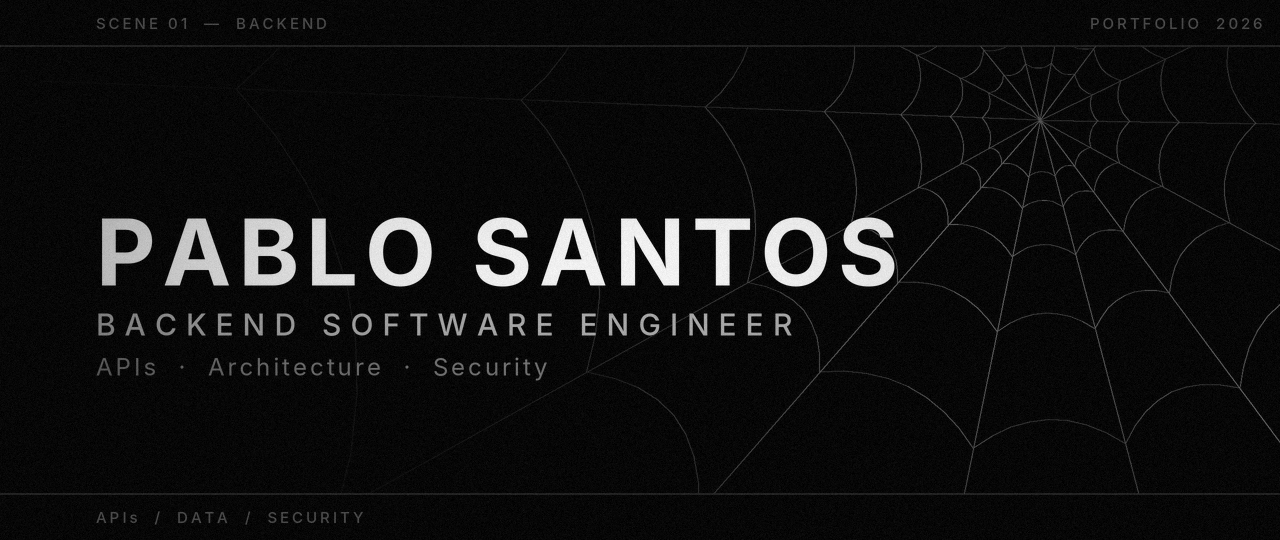
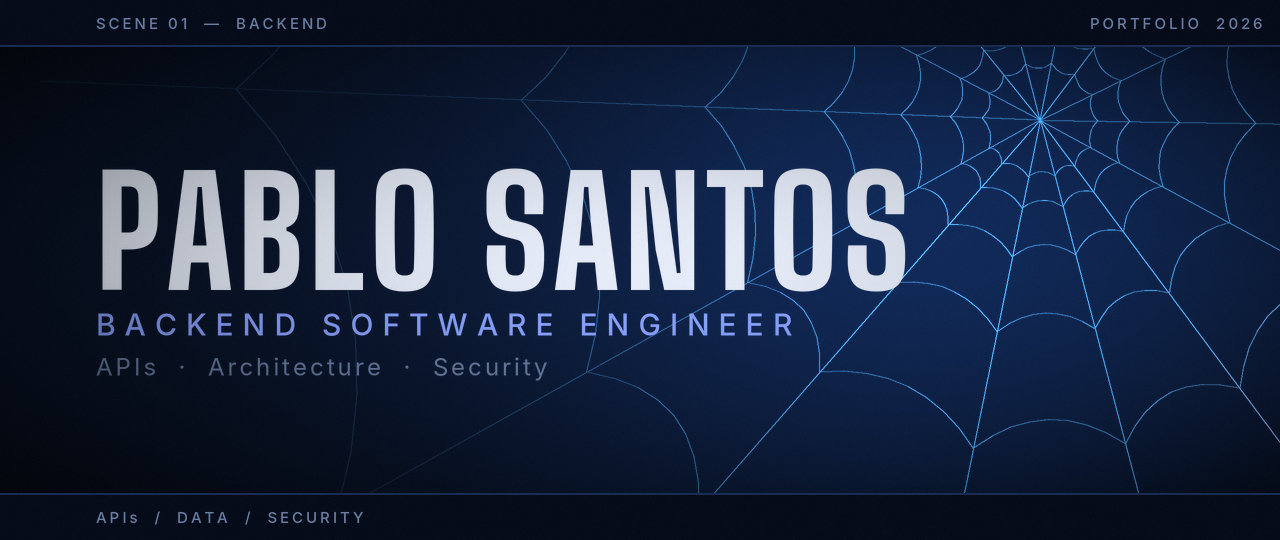
feat: navy cinematic hero

diff --git a/tools/render_hero.py b/tools/render_hero.py
@@ -1,9 +1,9 @@
-"""Renders the cinematic, monochrome hero (hero.webp + hero-static.png).
+"""Renders the navy cinematic hero (hero.webp + hero-static.png).
 
-Composition: a procedural web (own geometry) spreads from the top-right,
-dimmed on the left where the text sits; letterbox bars, vignette and fine
-grain; name/subtitle revealed by a left-to-right wipe. Loop starts and ends
-on near-black.
+A procedural web (own geometry) spreads from the top-right in icy blue over a
+deep navy grade with a soft blue glow, letterbox bars, vignette and fine grain.
+Name/role/tags are revealed by a left-to-right wipe. The loop starts and ends
+on near-black navy.
 """
 from __future__ import annotations
 
@@ -16,32 +16,50 @@ from pathlib import Path
 import numpy as np
 from PIL import Image, ImageDraw, ImageFont
 
+from palette import EDGE, ICE, MUTED, NAVY, PALE, PERI, TEXT
+
 W, H = 1280, 540
-S = 2  # supersampling factor
+S = 2  # supersampling
 BAR = 46
 CENTER = (1040.0, 120.0)
-FONT_DIR = Path("/usr/share/fonts/opentype/inter")
-NAME = "PABLO SANTOS"
-SUB = "BACKEND SOFTWARE ENGINEER"
-TAG = "APIs  ·  Architecture  ·  Security"
+HERE = Path(__file__).resolve().parent
+INTER_DIR = Path("/usr/share/fonts/opentype/inter")
+DISPLAY_FONT = HERE / "fonts" / "BigShouldersDisplay-800.woff"
+NAME, SUB, TAG = "PABLO SANTOS", "BACKEND SOFTWARE ENGINEER", "APIs  ·  Architecture  ·  Security"
 
 
-def _font(weight: str, size: int) -> ImageFont.FreeTypeFont:
-    return ImageFont.truetype(str(FONT_DIR / f"Inter-{weight}.otf"), size * S)
+def _rgb(c: str) -> np.ndarray:
+    c = c.lstrip("#")
+    return np.array([int(c[i:i + 2], 16) for i in (0, 2, 4)], dtype=np.float32)
 
 
-def _tracked(draw: ImageDraw.ImageDraw, xy, text, font, tracking, fill=255):
+C_NAVY, C_ICE, C_PALE, C_PERI, C_TEXT, C_MUTED, C_EDGE = (_rgb(x) for x in (NAVY, ICE, PALE, PERI, TEXT, MUTED, EDGE))
+C_FLOOR, C_BAR = np.array([5, 10, 22], np.float32), np.array([6, 12, 26], np.float32)
+C_GLOW = np.array([20, 55, 120], np.float32)
+
+
+def _inter(weight: str, size: int) -> ImageFont.FreeTypeFont:
+    return ImageFont.truetype(str(INTER_DIR / f"Inter-{weight}.otf"), size * S)
+
+
+def _display(size: int) -> ImageFont.FreeTypeFont:
+    if DISPLAY_FONT.exists():
+        return ImageFont.truetype(str(DISPLAY_FONT), size * S)
+    return _inter("Bold", int(size * 0.72))
+
+
+def _tracked(draw, xy, text, font, tracking, fill=255):
     x, y = xy
     for ch in text:
         draw.text((x * S, y * S), ch, font=font, fill=fill)
         x += font.getlength(ch) / S + tracking
 
 
-def _clamp(v: float, lo: float = 0.0, hi: float = 1.0) -> float:
+def _clamp(v, lo=0.0, hi=1.0):
     return max(lo, min(hi, v))
 
 
-def _ease(v: float) -> float:
+def _ease(v):
     v = _clamp(v)
     return v * v * (3 - 2 * v)
 
@@ -53,7 +71,7 @@ def _web_geometry():
     radii = [58 * (1.55 ** k) for k in range(7)]
     cx, cy = CENTER
     rings = []
-    for k, r in enumerate(radii):
+    for r in radii:
         pts = []
         for j in range(n + 1):
             a0 = angles[j % n]
@@ -62,11 +80,10 @@ def _web_geometry():
             p1 = (cx + r * math.cos(a1), cy + r * math.sin(a1))
             mid = ((p0[0] + p1[0]) / 2, (p0[1] + p1[1]) / 2)
             ctrl = (cx + (mid[0] - cx) * 0.84, cy + (mid[1] - cy) * 0.84)
-            for s in range(0, 8):
+            for s in range(8):
                 u = s / 8
-                x = (1 - u) ** 2 * p0[0] + 2 * (1 - u) * u * ctrl[0] + u**2 * p1[0]
-                y = (1 - u) ** 2 * p0[1] + 2 * (1 - u) * u * ctrl[1] + u**2 * p1[1]
-                pts.append((x, y))
+                pts.append(((1 - u) ** 2 * p0[0] + 2 * (1 - u) * u * ctrl[0] + u ** 2 * p1[0],
+                            (1 - u) ** 2 * p0[1] + 2 * (1 - u) * u * ctrl[1] + u ** 2 * p1[1]))
         rings.append(pts)
     return angles, rings
 
@@ -80,97 +97,87 @@ def _web_layer(t: float) -> np.ndarray:
     cx, cy = CENTER
     for i, a in enumerate(ANGLES):
         p = _ease((t - 0.05 * i) / 1.3)
-        if p <= 0:
-            continue
-        L = 1000 * p
-        d.line([(cx * S, cy * S), ((cx + L * math.cos(a)) * S, (cy + L * math.sin(a)) * S)],
-               fill=105, width=2)
+        if p > 0:
+            L = 1000 * p
+            d.line([(cx * S, cy * S), ((cx + L * math.cos(a)) * S, (cy + L * math.sin(a)) * S)], fill=125, width=2)
     for k, pts in enumerate(RINGS):
         p = _ease((t - (0.9 + 0.33 * k)) / 1.1)
-        if p <= 0:
-            continue
-        m = max(2, int(len(pts) * p))
-        d.line([(x * S, y * S) for x, y in pts[:m]], fill=95, width=2, joint="curve")
-    arr = np.asarray(img.resize((W, H), Image.LANCZOS)).astype(np.float32)
-    return arr
+        if p > 0:
+            m = max(2, int(len(pts) * p))
+            d.line([(x * S, y * S) for x, y in pts[:m]], fill=110, width=2, joint="curve")
+    return np.asarray(img.resize((W, H), Image.LANCZOS)).astype(np.float32)
 
 
-def _static_masks():
+def _static_fields():
     xs = np.linspace(0, 1, W, dtype=np.float32)[None, :]
     ys = np.linspace(0, 1, H, dtype=np.float32)[:, None]
-    # dim the web on the left where text sits
-    web_mask = 0.18 + 0.82 * np.clip((xs - 0.30) / 0.45, 0, 1) ** 1.2
-    web_mask = np.broadcast_to(web_mask, (H, W)).copy()
-    # vignette
-    vx = (xs - 0.5) * 1.15
-    vy = (ys - 0.5) * 1.35
-    vig = np.clip(1 - (vx**2 + vy**2) * 1.05, 0.15, 1.0)
-    return web_mask, vig.astype(np.float32)
+    web_mask = np.broadcast_to(0.18 + 0.82 * np.clip((xs - 0.30) / 0.45, 0, 1) ** 1.2, (H, W)).copy()
+    vig = np.clip(1 - (((xs - 0.5) * 1.15) ** 2 + ((ys - 0.5) * 1.35) ** 2) * 1.05, 0.2, 1.0).astype(np.float32)
+    yy, xx = np.mgrid[0:H, 0:W].astype(np.float32)
+    d2 = ((xx - CENTER[0]) ** 2 + (yy - CENTER[1]) ** 2) / (520.0 ** 2)
+    glow = (np.exp(-d2) * 0.55).astype(np.float32)
+    return web_mask, vig, glow, xx, yy
 
 
-WEB_MASK, VIGNETTE = _static_masks()
+WEB_MASK, VIGNETTE, GLOW, XX, YY = _static_fields()
+COLS = np.arange(W, dtype=np.float32)[None, :]
 
 
 def _text_layers():
-    """Return list of (layer ndarray 0..1 at 1x, wipe_start, brightness)."""
     def layer(font, y, text, tracking, x=96):
         img = Image.new("L", (W * S, H * S), 0)
         _tracked(ImageDraw.Draw(img), (x, y), text, font, tracking)
-        return np.asarray(img.resize((W, H), Image.LANCZOS)).astype(np.float32) / 255.0
+        return np.asarray(img.resize((W, H), Image.LANCZOS)).astype(np.float32)[..., None] / 255.0
 
     return [
-        (layer(_font("Bold", 92), 196, NAME, 7), 3.0, 242.0),
-        (layer(_font("Medium", 30), 306, SUB, 9), 3.7, 170.0),
-        (layer(_font("Regular", 24), 352, TAG, 3), 4.2, 120.0),
+        (layer(_display(150), 142, NAME, 5), 3.0, C_TEXT),
+        (layer(_inter("Medium", 30), 306, SUB, 9), 3.7, C_PERI),
+        (layer(_inter("Regular", 24), 352, TAG, 3), 4.2, C_MUTED),
     ]
 
 
-def _bars_layer():
+def _bar_text():
     img = Image.new("L", (W * S, H * S), 0)
-    d = ImageDraw.Draw(img)
-    f = _font("Medium", 15)
+    d, f = ImageDraw.Draw(img), _inter("Medium", 15)
     _tracked(d, (96, 14), "SCENE 01  —  BACKEND", f, 3)
     _tracked(d, (W - 190, 14), "PORTFOLIO  2026", f, 3)
     _tracked(d, (96, H - BAR + 14), "APIs  /  DATA  /  SECURITY", f, 3)
-    arr = np.asarray(img.resize((W, H), Image.LANCZOS)).astype(np.float32) / 255.0
-    return arr * 70.0
+    return np.asarray(img.resize((W, H), Image.LANCZOS)).astype(np.float32)[..., None] / 255.0
 
 
-TEXTS = _text_layers()
-BAR_TEXT = _bars_layer()
-COLS = np.arange(W, dtype=np.float32)[None, :]
-XX, YY = np.meshgrid(np.arange(W, dtype=np.float32), np.arange(H, dtype=np.float32))
+TEXTS, BAR_TEXT = _text_layers(), _bar_text()
 
 
-def frame_at(t: float, seconds: float, rng: np.random.Generator) -> Image.Image:
+def frame_at(t: float, seconds: float, rng: np.random.Generator, grain: float = 3.2) -> Image.Image:
     web = _web_layer(t) * WEB_MASK
-    # light sweep along the web (diagonal band)
     sp = _clamp((t - 3.4) / 3.0)
-    pos = -300 + sp * (W + 900)
-    band = np.exp(-(((XX + YY * 0.6) - pos) / 130.0) ** 2)
-    web = web * (1 + 0.9 * band)
+    band = np.exp(-(((XX + YY * 0.6) - (-300 + sp * (W + 900))) / 130.0) ** 2)[..., None]
+    w = np.clip(web / 125.0, 0, 1.6)[..., None]
 
-    out = web.copy()
-    for layer, start, bright in TEXTS:
-        p = _clamp((t - start) / 1.3)
-        reach = _ease(p) * (W + 260) - 260 * (1 - _ease(p))
-        a = np.clip((reach - COLS) / 260.0, 0, 1)
-        out = np.maximum(out, layer * a * bright)
+    img = C_NAVY * 0.92 + GLOW[..., None] * C_GLOW
+    img = img + w * C_ICE * 0.95 + (w * band) * (C_PALE - C_ICE) * 0.9 + (w * band) * 40
+    for layer, start, color in TEXTS:
+        p = _ease((t - start) / 1.3)
+        reach = p * (W + 260) - 260 * (1 - p)
+        a = layer * np.clip((reach - COLS) / 260.0, 0, 1)[..., None]
+        img = img * (1 - a) + color * a
+    img = img * VIGNETTE[..., None]
 
-    out = out * VIGNETTE
-    out[:BAR, :] = 0
-    out[H - BAR:, :] = 0
-    out[BAR - 1:BAR + 1, :] = np.maximum(out[BAR - 1:BAR + 1, :], 28)
-    out[H - BAR - 1:H - BAR + 1, :] = np.maximum(out[H - BAR - 1:H - BAR + 1, :], 28)
-    out = np.maximum(out, BAR_TEXT * _ease((t - 0.4) / 0.8))
+    img[:BAR], img[H - BAR:] = C_BAR, C_BAR
+    for y in (BAR - 1, BAR, H - BAR - 1, H - BAR):
+        img[y, :] = C_EDGE
+    a = BAR_TEXT * _ease((t - 0.4) / 0.8)
+    mask = np.zeros((H, W, 1), np.float32)
+    mask[:BAR], mask[H - BAR:] = 1, 1
+    img = img * (1 - a * mask) + C_MUTED * (a * mask)
 
     fade = _ease(t / 0.5) * (1 - _ease((t - (seconds - 0.7)) / 0.6))
-    out = 7 + out * fade * 0.97
-    out = out + rng.normal(0, 3.2, out.shape).astype(np.float32)
-    return Image.fromarray(np.clip(out, 0, 255).astype(np.uint8), "L").convert("RGB")
+    img = C_FLOOR + (img - C_FLOOR) * fade
+    img = img + rng.normal(0, grain, (H, W, 1)).astype(np.float32)
+    return Image.fromarray(np.clip(img, 0, 255).astype(np.uint8), "RGB")
 
 
-def render_hero(out_dir: Path, fps: int = 16, seconds: float = 7.0, quality: int = 62):
+def render_hero(out_dir: Path, fps: int = 16, seconds: float = 7.0, quality: int = 52):
     out_dir = Path(out_dir)
     out_dir.mkdir(parents=True, exist_ok=True)
     rng = np.random.default_rng(11)
@@ -187,7 +194,7 @@ def render_hero(out_dir: Path, fps: int = 16, seconds: float = 7.0, quality: int
             check=True,
         )
         static = out_dir / "hero-static.png"
-        frame_at(min(seconds - 1.0, 6.0), seconds, np.random.default_rng(3)).save(static, optimize=True)
+        frame_at(min(seconds - 1.0, 6.0), seconds, np.random.default_rng(3), grain=0.8).save(static, optimize=True)
         return webp, static
     finally:
         shutil.rmtree(tmp, ignore_errors=True)
@@ -196,7 +203,6 @@ def render_hero(out_dir: Path, fps: int = 16, seconds: float = 7.0, quality: int
 if __name__ == "__main__":
     import sys
 
-    q = int(sys.argv[1]) if len(sys.argv) > 1 else 62
-    here = Path(__file__).resolve().parent.parent
-    w, s = render_hero(here / "assets", quality=q)
+    q = int(sys.argv[1]) if len(sys.argv) > 1 else 52
+    w, s = render_hero(HERE.parent / "assets", quality=q)
     print(w, w.stat().st_size, s, s.stat().st_size)
